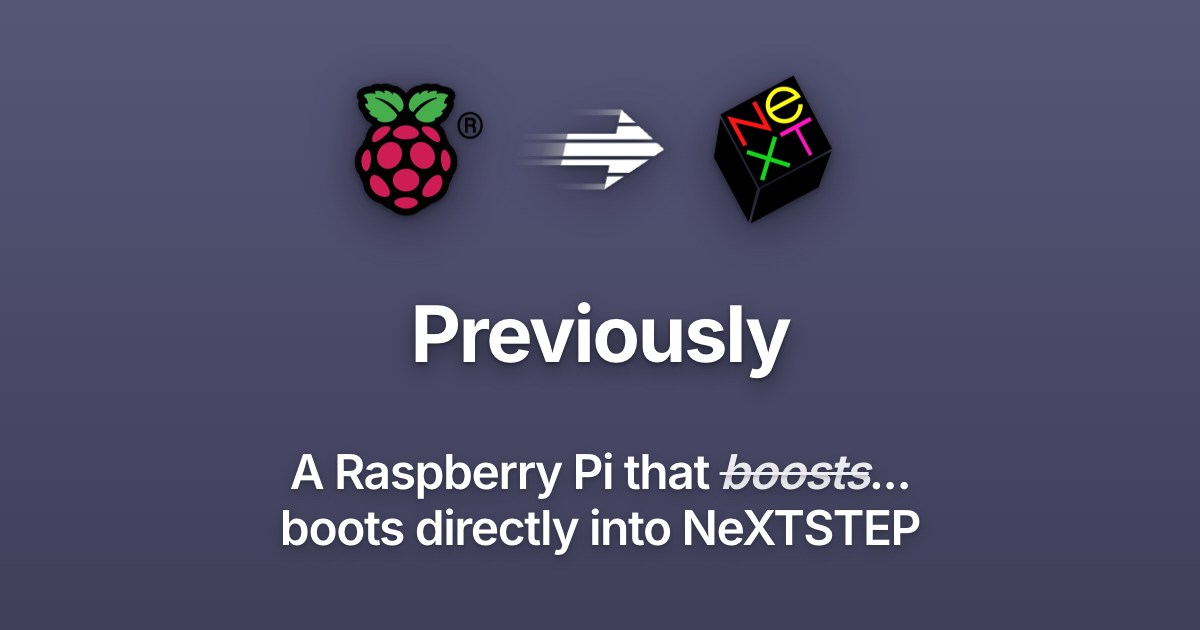
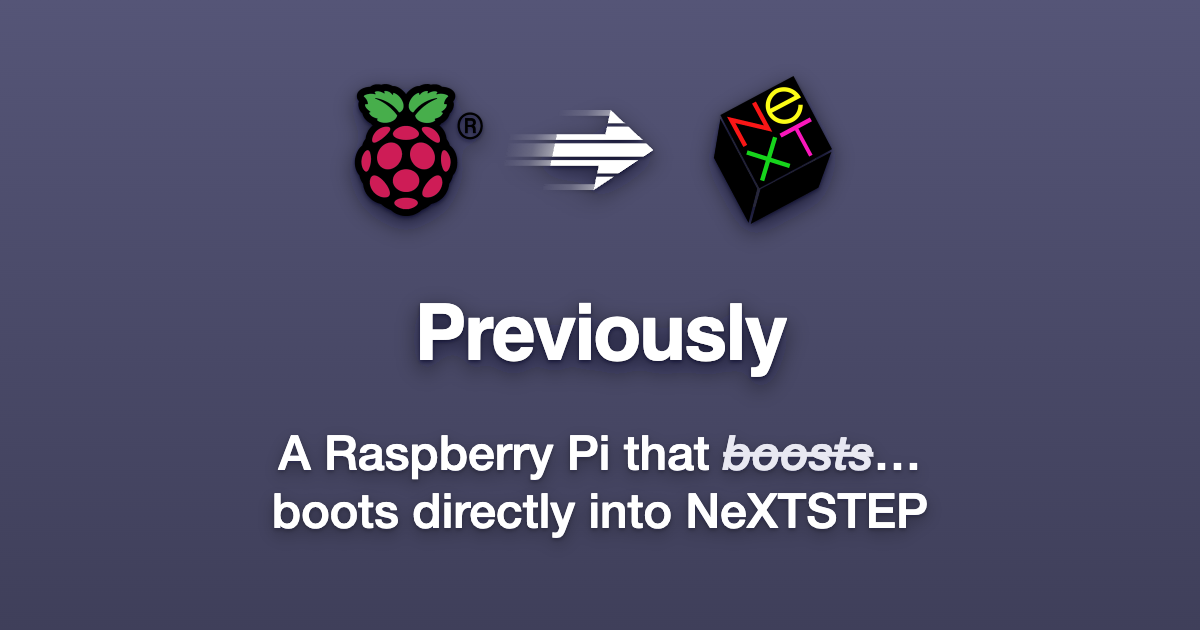
Feat: The link preview has a source that can be edited (#200)
- design/og-image.svg is now where the picture is made: the gradient, the arrow with its slits and streaks, the shadows and both lines of text, with the two logos embedded so the file stands on its own
- site/og.html holds that at 1200 by 630, which is what a screenshot of it renders into site/shots/og.png
- The name is Helvetica Bold and the lines under it are Helvetica Neue Medium, because Helvetica itself carries only Regular and Bold and asking it for anything between the two lands on Bold

diff --git a/site/og.html b/site/og.html
@@ -1,191 +1,29 @@
 <!DOCTYPE html>
-<!--
-  The source of site/og.png, which is what a link to this page unfolds into on
-  a social network or in a chat window.
-
-  It is a page rather than a drawing so the preview is set in the same face and
-  the same colours as the site, and so changing either changes both. Take the
-  picture at exactly 1200 by 630, which is the size those services crop to:
-
-    python3 -m http.server 8193
-    (open /site/og.html, screenshot the viewport at 1200 by 630)
-
-  README.md says the same in one line.
--->
 <html lang="en">
 <head>
 <meta charset="utf-8">
 <title>Previously, as a link preview</title>
-<link rel="stylesheet" href="site.css">
 <style>
-  /* The card is the whole viewport, and the viewport is the crop. */
-  html, body { margin: 0; }
+  /* The picture and nothing else, at exactly the size a social network crops
+     to, so a screenshot of this viewport is site/shots/og.png.
 
-  /* Everything on this card lifts off the colour the same way: a tight shadow
-     that sets the shape off the ground and a wide one that gives it somewhere
-     to sit. Stated once as a pair of complete shadow arguments, because
-     `text-shadow` and `drop-shadow()` take them in the same order, so the
-     letters and the drawings cannot end up floating at two heights.
-
-     The workspace is dark, so the colour is a deeper version of it and never
-     black, which would read as soot rather than as shade. */
-  :root {
-    --lift-near: 0 2px 4px rgb(16 16 28 / 55%);
-    --lift-far: 0 8px 22px rgb(16 16 28 / 60%);
-    --lift-near-soft: 0 2px 4px rgb(16 16 28 / 28%);
-    --lift-far-soft: 0 6px 16px rgb(16 16 28 / 30%);
-  }
-
-  body {
+     What it shows is design/og-image.svg, which is the source. Edit that.
+     This page only holds it at the right size and puts it on screen. */
+  html, body {
+    margin: 0;
     width: 1200px;
     height: 630px;
-    display: flex;
-    flex-direction: column;
-    align-items: center;
-    justify-content: center;
-    gap: var(--space-6);
-    padding: var(--space-12);
-    /* The workspace colour, sinking a little towards the bottom edge. The
-       darker end is mixed from the same token rather than written out, so
-       there is one colour here and a rule about it. */
-    background: linear-gradient(
-      180deg,
-      var(--next-desktop),
-      color-mix(in oklab, var(--next-desktop) 82%, black)
-    );
-    color: var(--next-white);
-    text-align: center;
     overflow: hidden;
   }
 
-  /* One machine turning into another, which is the whole of what this project
-     does. The Pi is on the left because that is what somebody starts with. */
-  .journey {
-    display: flex;
-    align-items: center;
-    gap: var(--space-4);
-  }
-
-  /* All three stand off the colour together. A drop shadow follows the shape
-     after a mask has cut it, so the arrow's slits stay open in its shadow
-     rather than filling in behind them. */
-  .journey > * {
-    filter: drop-shadow(var(--lift-near)) drop-shadow(var(--lift-far));
-  }
-
-  .journey__pi {
-    width: 132px;
-    height: 132px;
-  }
-
-  .journey__next {
-    width: 148px;
-    height: 148px;
-  }
-
-  /* Leaning the way it is travelling, at the angle the italic of this face
-     leans, so the arrow and the struck out word below it slant alike. It is
-     drawn at 210 by 140 and shown smaller, because it connects the two marks
-     rather than competing with them. */
-  .journey__arrow {
-    width: 150px;
-    height: 100px;
-    transform: skewX(-12deg);
-  }
-
-  /* The mark carries the name, and the sentence under it says what the name
-     is. A preview is read at the size of a thumbnail, so there is little on it
-     and all of it is large. */
-  .name {
-    font-size: 78px;
-    font-weight: 700;
-    letter-spacing: -0.03em;
-    /* The workspace is dark, so the shadow is a deeper version of it rather
-       than black, and it carries a tight one under a wide one: the first sets
-       the letters off the colour, the second gives them somewhere to sit. */
-    text-shadow: 0 2px 4px rgb(16 16 28 / 55%), 0 8px 22px rgb(16 16 28 / 60%);
-  }
-
-  h1 {
-    font-size: 48px;
-    font-weight: 600;
-    max-width: 24ch;
-    /* The same shadow as the name above, at half its weight, so the two sit at
-       two depths rather than at one. */
-    text-shadow: 0 2px 4px rgb(16 16 28 / 28%), 0 6px 16px rgb(16 16 28 / 30%);
-  }
-
-  /* The word it nearly said. Struck through, leaning, and stepped back, so the
-     joke reads as a correction rather than as a word somebody left in. */
-  h1 s {
-    color: var(--on-workspace-soft);
-    font-style: italic;
-    text-decoration-thickness: 0.06em;
+  object {
+    display: block;
+    width: 1200px;
+    height: 630px;
   }
 </style>
 </head>
 <body>
-  <div class="journey">
-    <img class="journey__pi" src="raspberry-pi.png" alt="">
-
-    <!--
-      An arrow caught mid flight, drawn rather than blurred. Speed is told by
-      what is around the shape instead of by softening it: three strokes
-      trailing behind it, and four thin slits cut straight through everything,
-      which is how a drawing says movement without going out of focus.
-
-      Drawn here rather than taken from the icon family, because no interface
-      icon set carries this and it is an illustration rather than a control.
-    -->
-    <svg class="journey__arrow" width="210" height="140" viewBox="0 0 210 140"
-         aria-hidden="true">
-      <defs>
-        <!-- What every trailing streak fades along: solid where it leaves the
-             arrow, gone by the time it reaches the back. Declared in the
-             box of whatever uses it, so each streak fades over its own
-             length rather than over the whole drawing. -->
-        <linearGradient id="wake" x1="0" x2="1">
-          <stop offset="0" stop-color="currentColor" stop-opacity="0"/>
-          <stop offset="0.55" stop-color="currentColor" stop-opacity="0.12"/>
-          <stop offset="1" stop-color="currentColor" stop-opacity="0.4"/>
-        </linearGradient>
-
-        <!-- White is kept and black is cut away, so the four bars come out as
-             four slits of workspace running across the arrow.
-
-             Spread over the whole height of the arrow rather than over the
-             shaft, which is the part of it the head reaches past. The arrow
-             stands between y=14 and y=126, so four slits five high leave five
-             bands of 18.4, and the set is symmetrical about y=70. -->
-        <mask id="slits">
-          <rect width="210" height="140" fill="white"/>
-          <rect x="-10" y="32.4" width="230" height="5" fill="black"/>
-          <rect x="-10" y="55.8" width="230" height="5" fill="black"/>
-          <rect x="-10" y="79.2" width="230" height="5" fill="black"/>
-          <rect x="-10" y="102.6" width="230" height="5" fill="black"/>
-        </mask>
-      </defs>
-
-      <g fill="currentcolor" mask="url(#slits)">
-        <!-- Every edge at the back of the arrow drags a streak behind it, and
-             each one starts exactly where its edge is and keeps that edge's
-             height. There are three, because the arrow has three edges facing
-             backwards: the end of the shaft, and the two barbs of the head. -->
-        <rect x="0" y="48" width="66" height="44" fill="url(#wake)"/>
-        <rect x="62" y="14" width="72" height="8" fill="url(#wake)"/>
-        <rect x="62" y="118" width="72" height="8" fill="url(#wake)"/>
-
-        <!-- The arrow, as one path: a shaft running into the head, with the
-             tip a point rather than a rounded corner, because a blunt arrow
-             reads as an arrow that has stopped. -->
-        <path d="M66 48 H134 V14 L206 70 L134 126 V92 H66 Z"/>
-      </g>
-    </svg>
-
-    <img class="journey__next" src="next-cube.png" alt="">
-  </div>
-
-  <div class="name">Previously</div>
-  <h1>A Raspberry Pi that <s>boosts</s>... boots directly into NeXTSTEP</h1>
+  <object type="image/svg+xml" data="../design/og-image.svg" aria-label="The link preview for previous.li"></object>
 </body>
 </html>

diff --git a/docs/running-it.md b/docs/running-it.md
@@ -114,5 +114,6 @@ The page is dark and only dark, it sets no cookie of its own, and the one thing 
 
 - The interface icons are [Phosphor](https://phosphoricons.com/) in its duotone weight, under MIT, and the GitHub mark is [Simple Icons](https://simpleicons.org/), under CC0 1.0. `site/icons.py` fetches both at a pinned version and writes `site/icons.svg`. Add a glyph there and run it rather than editing that file.
 - The face is [Inter](https://rsms.me/inter/), under the SIL Open Font License, whose text sits beside the font in `site/fonts/`.
-- `site/shots/og.png` is what a link to the page unfolds into elsewhere. It is a screenshot of `site/og.html` at exactly 1200 by 630, so it is set in the same face and the same colours as the site rather than drawn by hand. `site/shots/readme-hero.png` is that same picture with its corners rounded to 33 pixels, which is the site's own 24 point card radius at the width the README shows it. GitHub strips `style` out of the HTML in a Markdown file, so a rounded corner has to be in the file itself, and the social preview stays square because a service that puts it on its own background would show the cut corners.
+- `site/shots/og.png` is what a link to the page unfolds into elsewhere. Its source is `design/og-image.svg`, where the gradient, the arrow, the shadows and the two lines of text are all editable, and where both pictures are embedded so the file stands on its own. Change that, then render it at exactly 1200 by 630: `site/og.html` holds it at that size for the purpose, so a screenshot of that page's viewport is the new `og.png`. The text is set in Helvetica, which macOS carries, with the two lines under the name in Helvetica Neue Medium, because Helvetica itself holds only Regular and Bold.
+- `site/shots/readme-hero.png` is that same picture with its corners rounded to 33 pixels, which is the site's own 24 point card radius at the width the README shows it. GitHub strips `style` out of the HTML in a Markdown file, so a rounded corner has to be in the file itself, and the social preview stays square because a service that puts it on its own background would show the cut corners.
 - `site/shots/workspace.png` is a screenshot of the admin tool running on a Pi, taken at twice the size it is shown at so a Retina display gets one picture pixel per device pixel.
